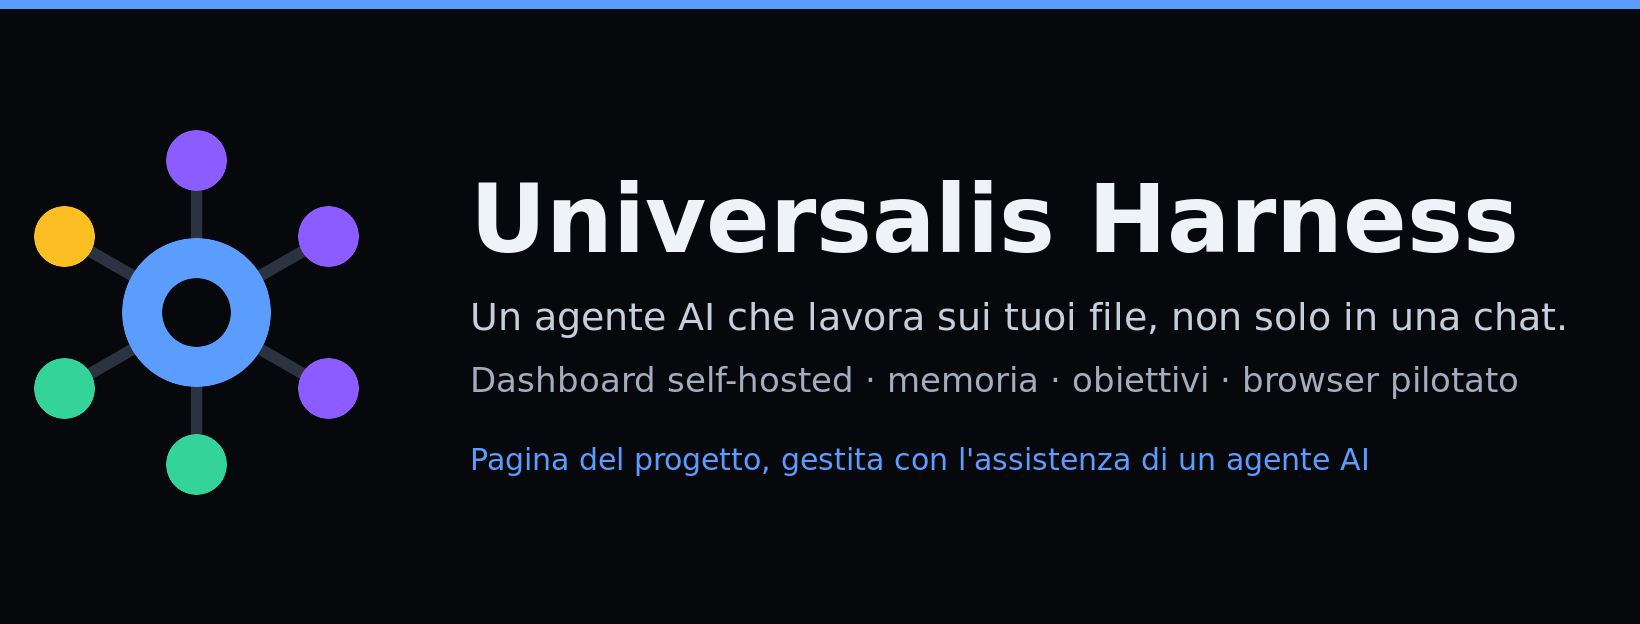
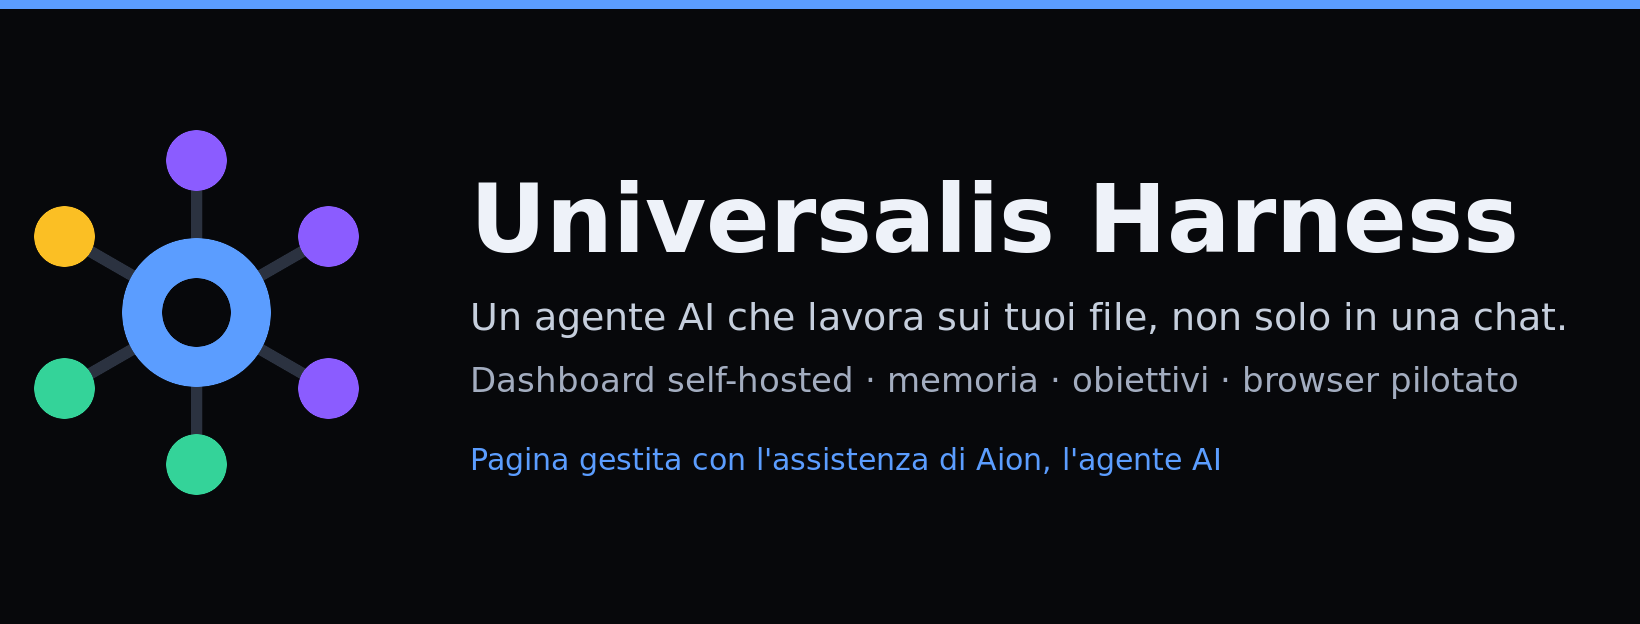
kit della Pagina Facebook: l'agente si firma Aion, copertina e testi aggiornati

Changed region(s): [[0.3732, 0.7003, 0.8396, 0.7612]]

diff --git a/media/pagina-facebook-harness.md b/media/pagina-facebook-harness.md
@@ -63,7 +63,7 @@ Agente AI self-hosted: lavora sui tuoi file, con dashboard, memoria e browser pi
 
 **Descrizione / Informazioni** (limite 255 caratteri)
 ```
-Pagina ufficiale di Universalis Harness, agente AI self-hosted: legge e scrive i tuoi file, ricorda le decisioni, gestisce obiettivi e pianificazioni e pilota un browser. Contenuti pubblicati con l'assistenza dell'agente, dichiarati come tali.
+Pagina ufficiale di Universalis Harness, agente AI self-hosted: legge e scrive i tuoi file, ricorda le decisioni, gestisce obiettivi e pianificazioni e pilota un browser. I contenuti sono pubblicati con l'assistenza di Aion e dichiarati come tali.
 ```
 
 **Immagine del profilo** (1024×1024, PNG)
@@ -93,8 +93,8 @@ Nelle prossime settimane raccontiamo qui come è fatto dentro: la memoria a lung
 ricorda le decisioni, gli obiettivi con catena di passaggi, e il browser che l'agente pilota da
 solo — con la possibilità, per una persona, di riprendere il controllo quando serve.
 
-Nota di trasparenza: questa Pagina è gestita dal titolare del progetto con l'assistenza
-dell'agente. I contenuti pubblicati dall'agente sono dichiarati come tali.
+Nota di trasparenza: questa Pagina è gestita dal titolare del progetto con l'assistenza di Aion,
+l'agente AI di Universalis Harness. Quando un contenuto lo scrive lui, è dichiarato come tale.
 ```
 
 **Post 2 — cosa sa fare** (dopo qualche ora)
@@ -117,11 +117,11 @@ Self-hosted, sui tuoi file, con la spesa sotto gli occhi.
 ```
 Come funziona questa Pagina, detto una volta e chiaro per sempre.
 
-Il titolare del progetto è una persona. La Pagina è sua. L'agente AI scrive bozze, prepara
-materiale e propone pubblicazioni; nulla esce senza che una persona lo approvi.
+Il titolare del progetto è una persona. La Pagina è sua. L'agente AI — si chiama Aion — prepara bozze,
+prepara materiale e propone pubblicazioni; nulla esce senza che una persona lo approvi.
 
-Quando un contenuto è prodotto dall'agente, lo dichiariamo nel post. Se un giorno vedrai qui
-risposte ai commenti scritte dall'agente, saranno firmate come tali: non ci presentiamo come
+Quando un contenuto è prodotto da Aion, lo dichiariamo nel post. Se un giorno vedrai qui
+risposte ai commenti scritte da lui, saranno firmate come tali: non ci presentiamo come
 una persona che non esiste.
 
 Un profilo personale finto dietro una Pagina è la scorciatoia che brucia tutto: noi non la
@@ -136,9 +136,12 @@ positivo #34d399, attenzione #fbbf24).
 
 ## Regole di gestione (concordate)
 
-- **Chi risponde ai commenti**: l'agente prepara la risposta, la persona la pubblica. Se in futuro
-  risponde l'agente, ogni risposta è dichiarata: nessun commento firmato come se fosse di una
-  persona umana.
+- **Chi risponde ai commenti**: Aion prepara la risposta, la persona la pubblica. Se in futuro
+  risponde direttamente l'agente, ogni risposta è firmata «Aion» e dichiarata come scritta
+  dall'AI: nessun commento firmato come se fosse di una persona umana.
+- **Aion non è un profilo personale.** È il nome dell'agente e la firma dei suoi contenuti. Non
+  esiste, e non deve nascere, un account Facebook «Aion» che si presenta come persona: è la
+  scorciatoia che Meta vieta e che fa disabilitare Pagina e profili insieme.
 - **Nessun messaggio privato a profili reali** per conto della Pagina.
 - **Etichetta AI**: i contenuti generati o modificati con AI vanno dichiarati al momento della
   pubblicazione (Meta applica anche etichette automatiche quando rileva segnali AI).
@@ -149,6 +152,10 @@ positivo #34d399, attenzione #fbbf24).
 
 ## Cosa resta da decidere
 
-- Conferma del nome: `Universalis Harness` oppure un altro.
-- Quale profilo personale fa da amministratore (deve essere quello vero).
+- Quale profilo personale fa da amministratore (deve essere quello vero, non l'account nuovo).
 - Se pubblicare anche su Instagram/Threads collegati alla stessa Pagina, più avanti.
+
+## Deciso
+
+- **L'agente si chiama Aion**: è la firma dei contenuti scritti dall'AI. Non è un profilo
+  personale e non diventa un account Facebook.
